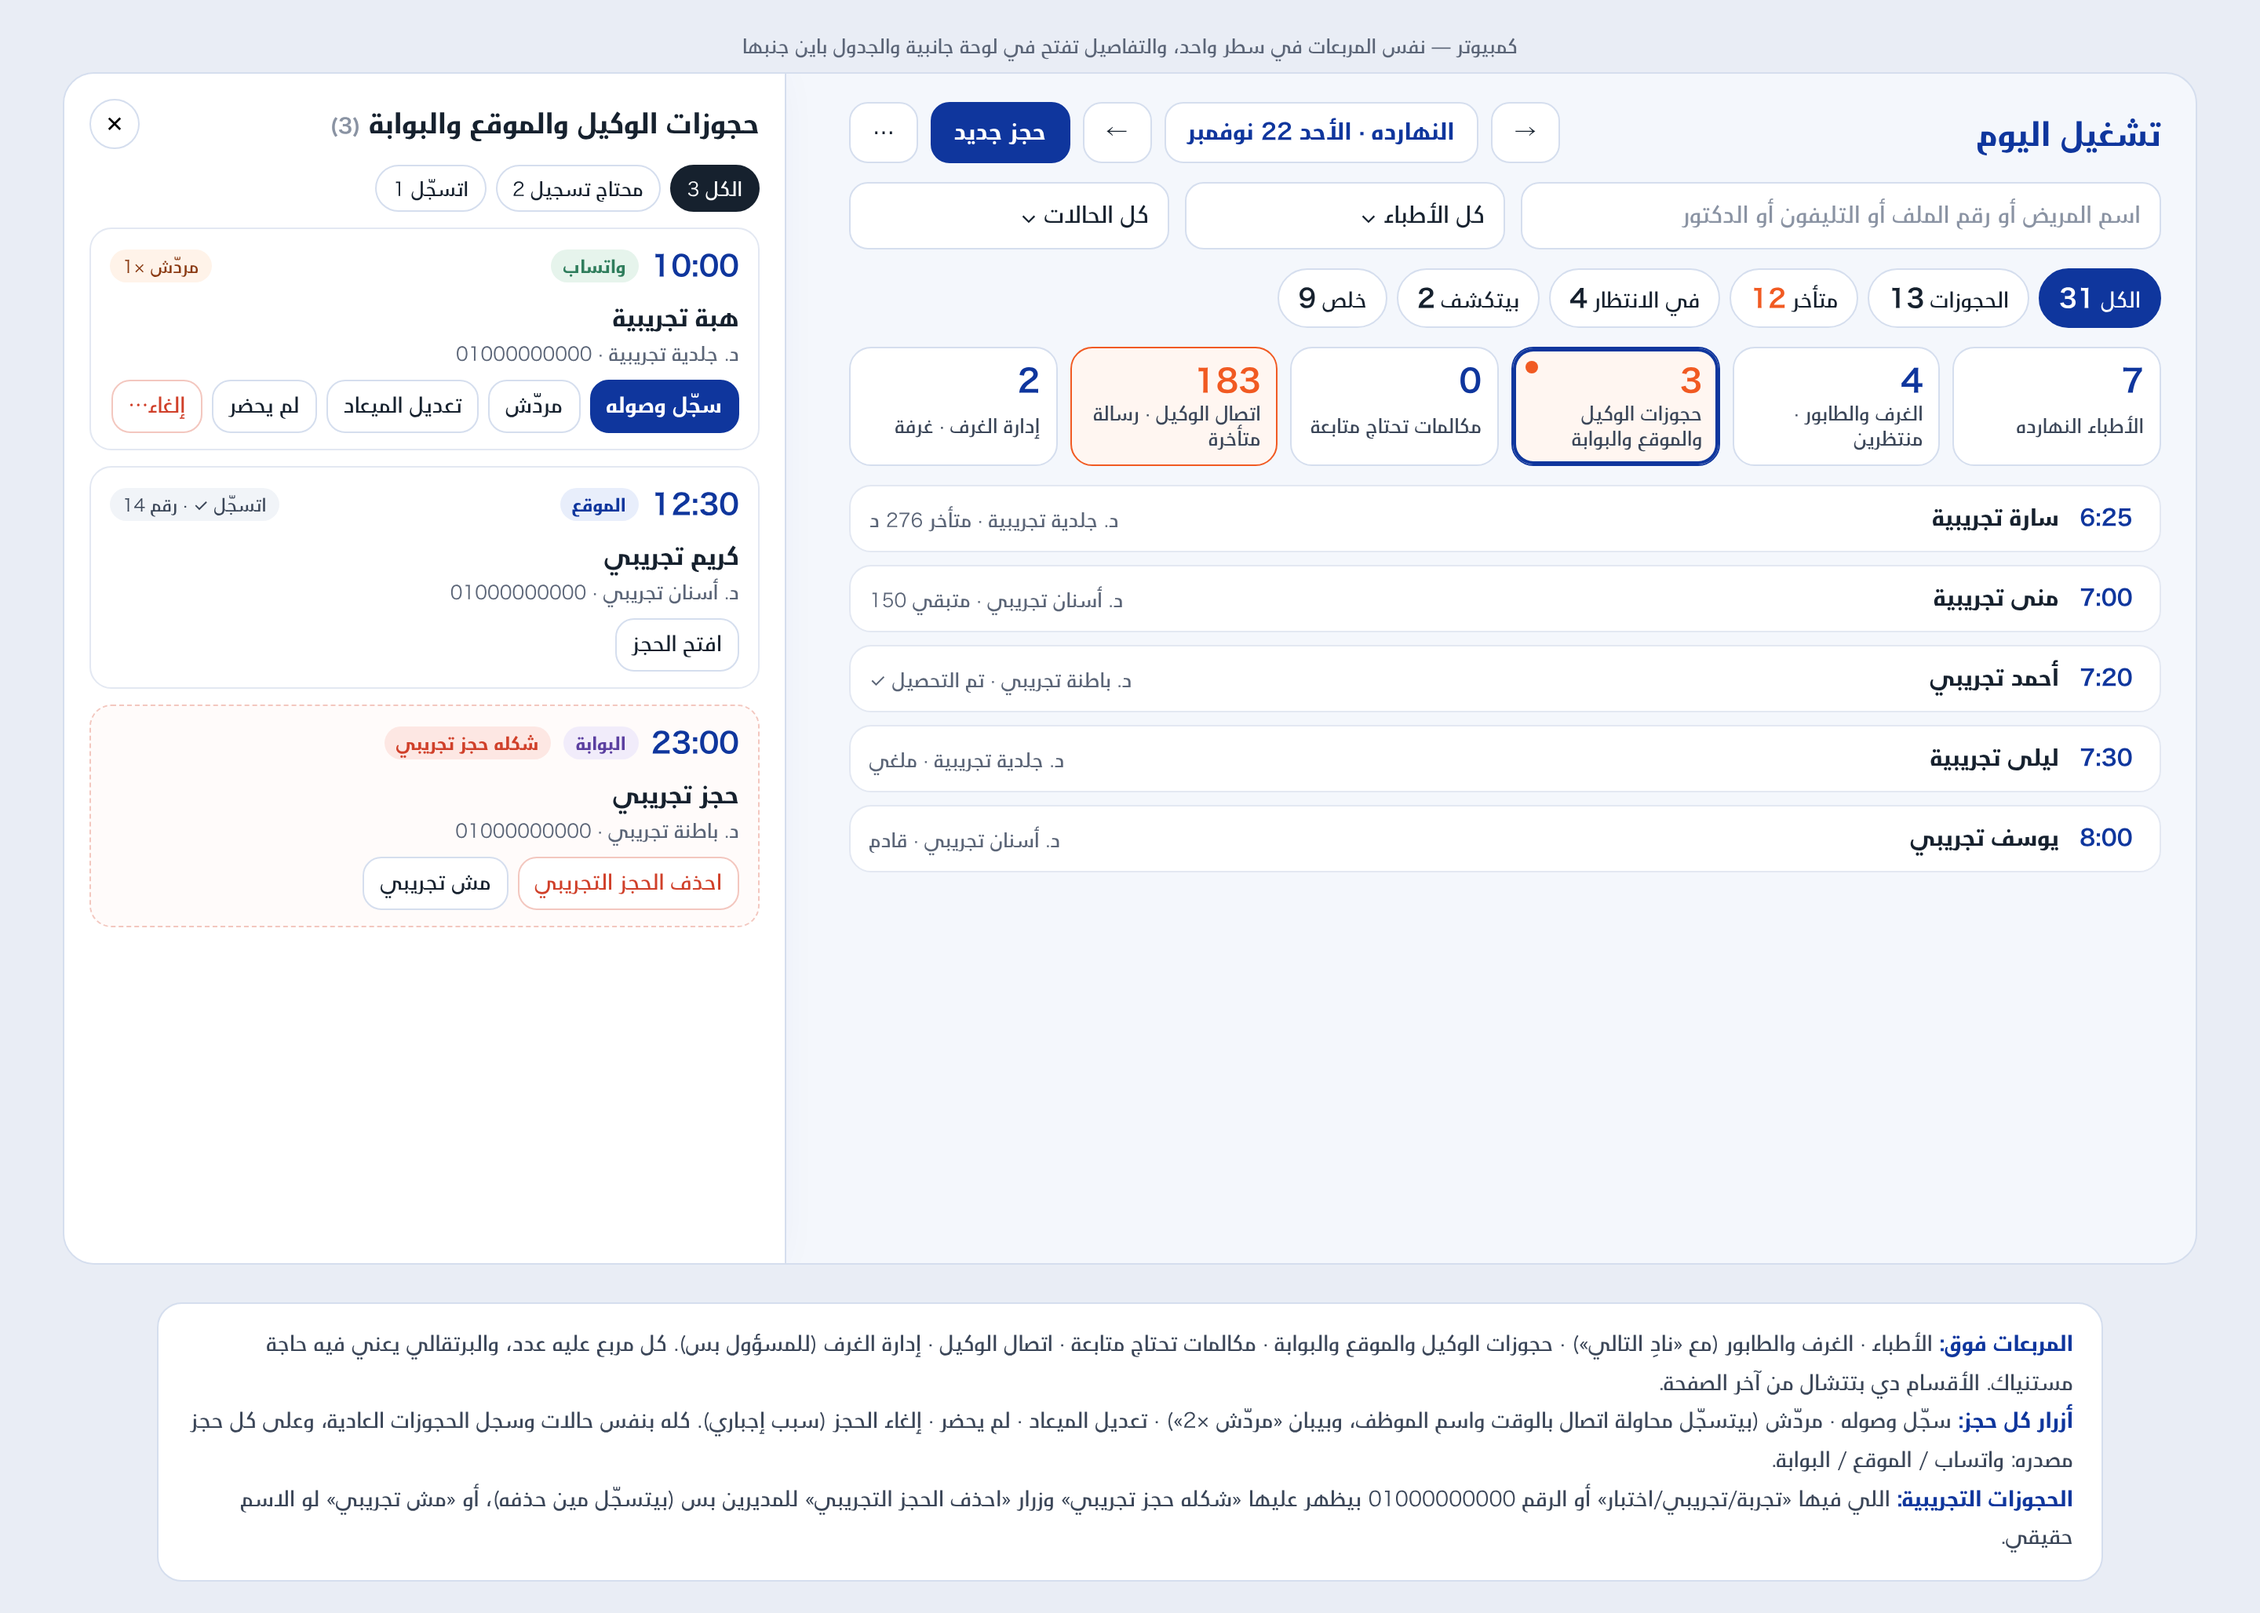
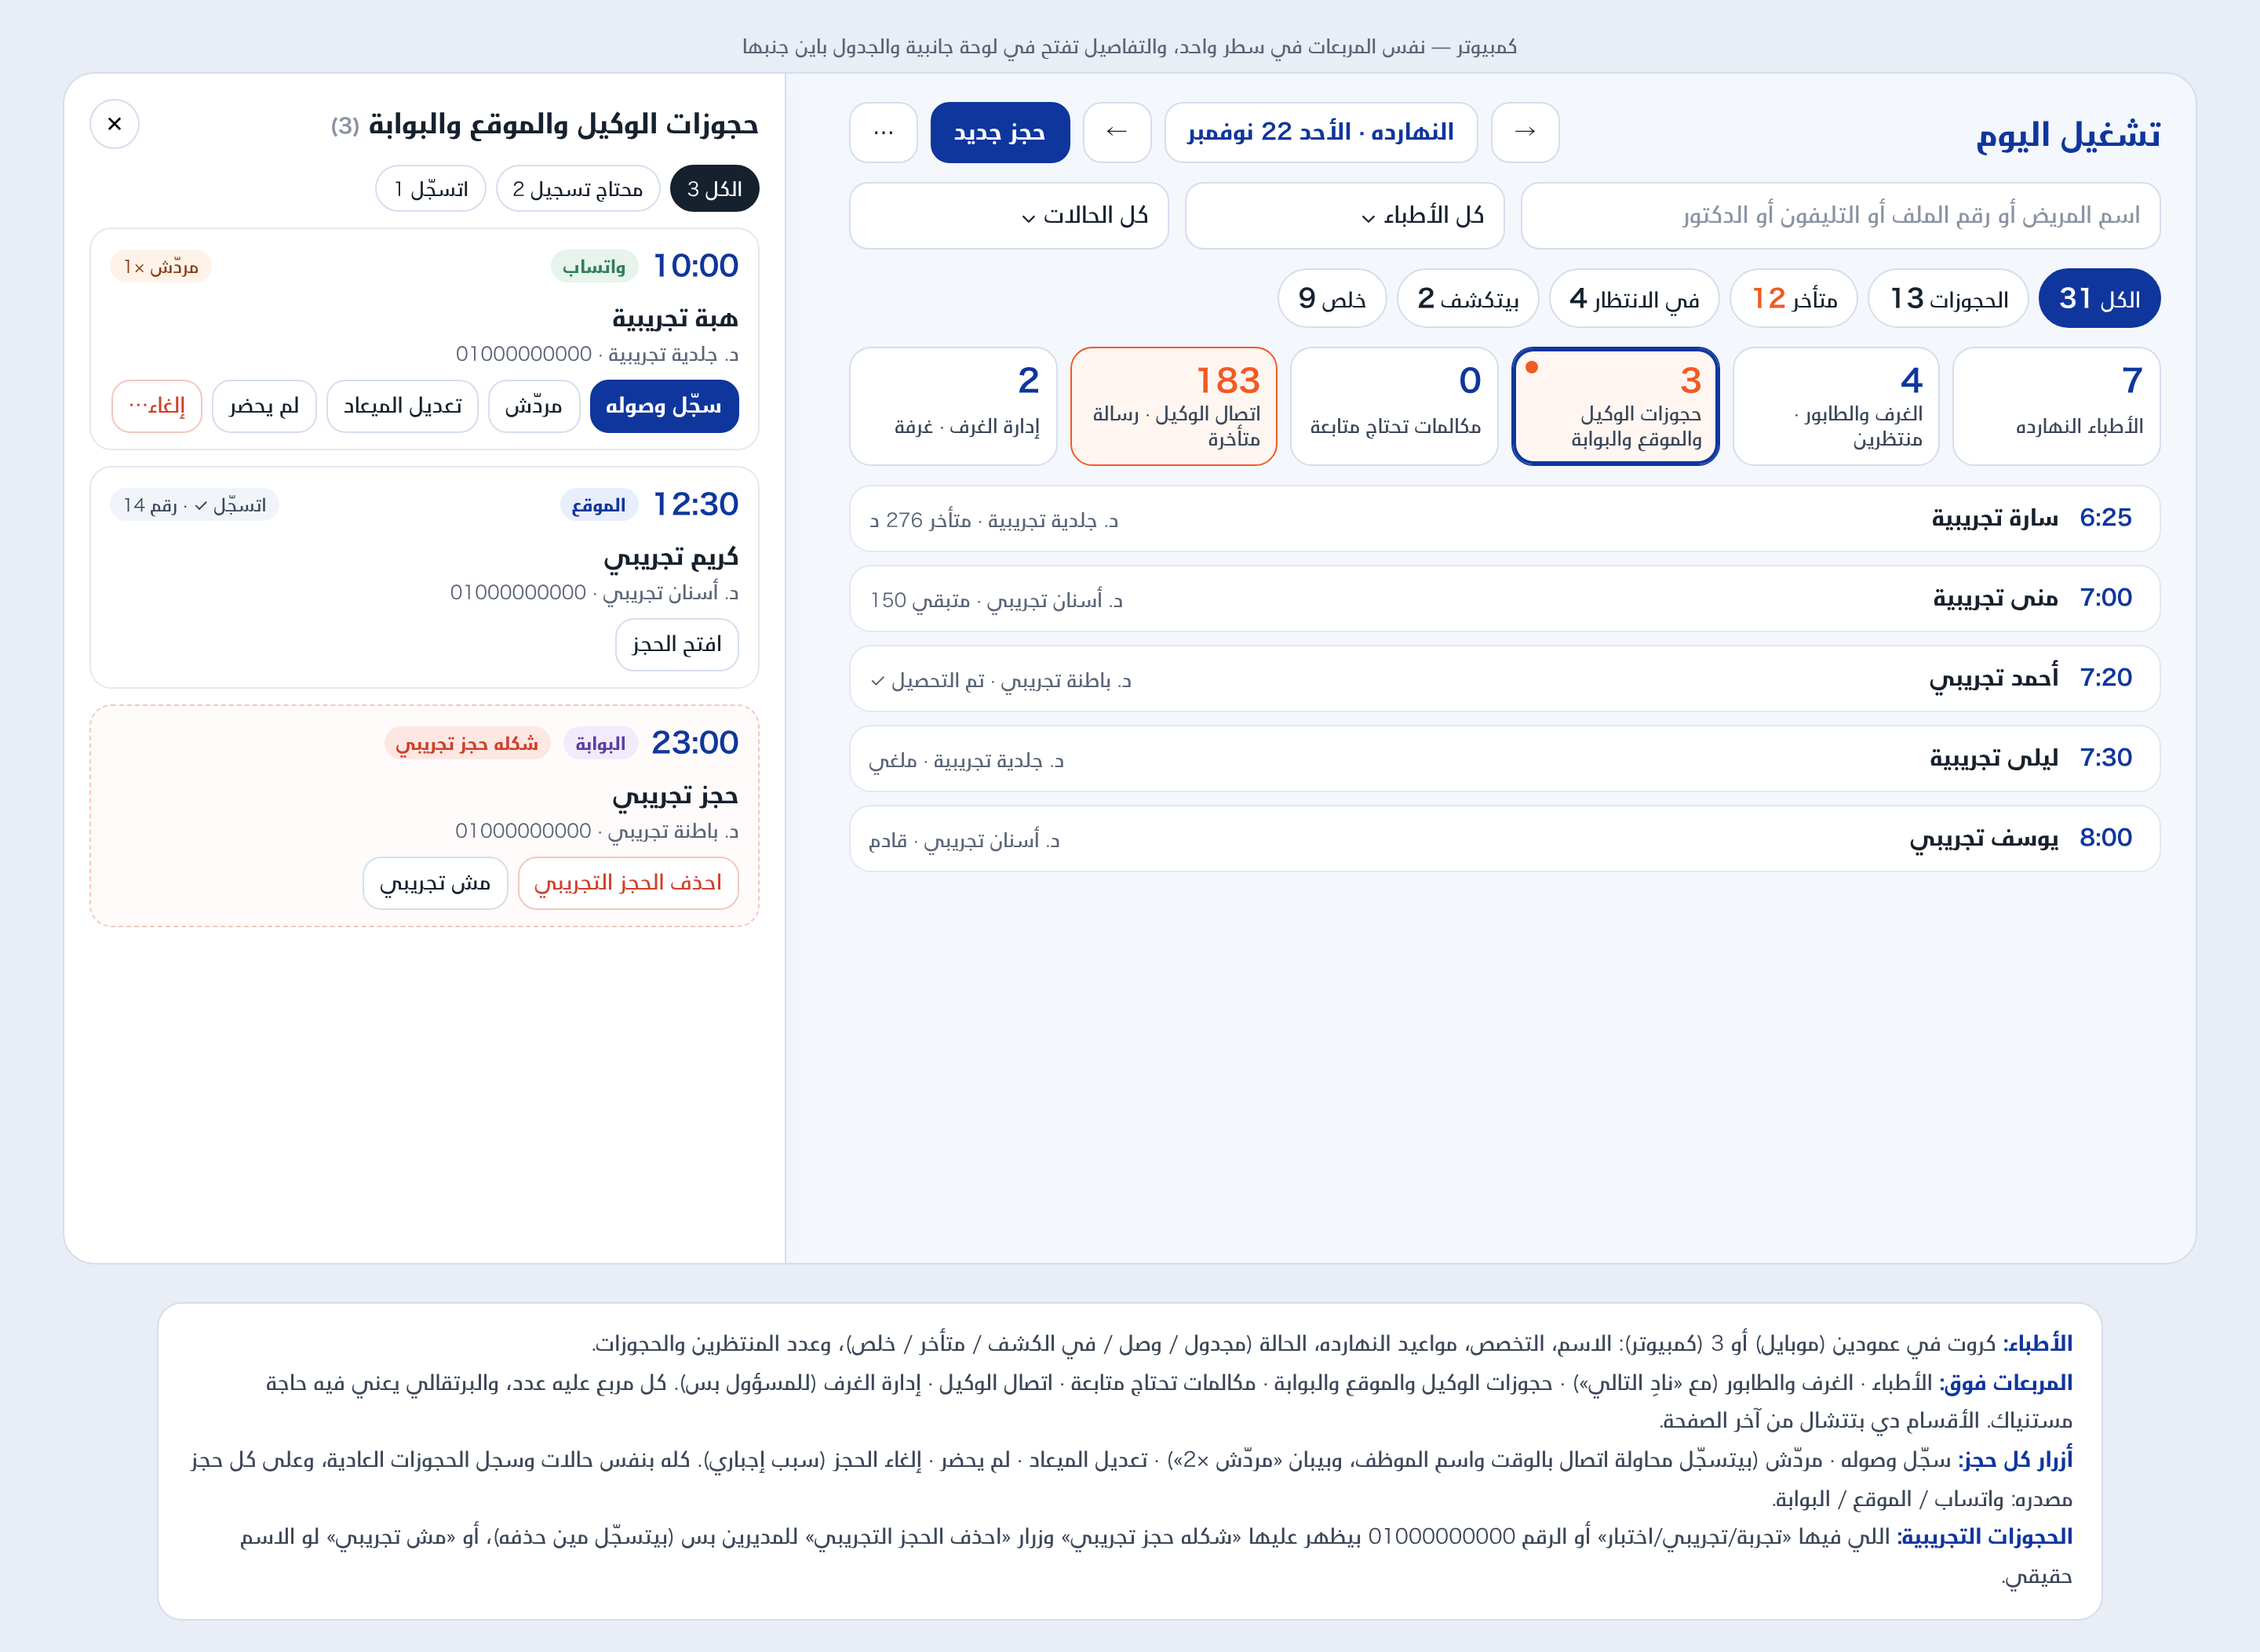
Mockup: doctors panel as a card grid
Claude-Session: https://claude.ai/code/session_01UqVZHa1WNN8bEGUYBvTA8M

diff --git a/docs/ui-references/mockups/today-shortcuts.html b/docs/ui-references/mockups/today-shortcuts.html
@@ -8,8 +8,8 @@
 *{box-sizing:border-box}
 body{margin:0;background:#E9EDF5;font-family:"Hiragino Kaku","BigVesta Arabic",system-ui,Tahoma,sans-serif;color:#16212E;font-size:14px}
 .cap{margin:0 0 8px;font-size:12px;color:#5b6577}
-.stage{display:grid;gap:24px;padding:20px 12px;max-width:1400px;margin:0 auto}
-.phones{display:grid;grid-template-columns:repeat(3,390px);gap:24px;justify-content:center}
+.stage{display:grid;gap:24px;padding:20px 12px;max-width:1720px;margin:0 auto}
+.phones{display:grid;grid-template-columns:repeat(4,390px);gap:24px;justify-content:center}
 .phone{width:390px;background:#F4F7FC;border-radius:28px;border:1px solid #D5DEEE;overflow:hidden;position:relative;height:844px;box-shadow:0 12px 30px rgba(15,54,157,.10)}
 .pad{padding:14px}
 .head{display:flex;align-items:center;gap:8px}.head h2{margin:0;font-size:20px;color:#0F369D;flex:1}
@@ -62,6 +62,13 @@ body{margin:0;background:#E9EDF5;font-family:"Hiragino Kaku","BigVesta Arabic",s
 .note{font-size:12px;background:#FFF3E9;color:#8A3A12;border-radius:10px;padding:8px 12px;margin:0;line-height:1.7}
 .ok{font-size:12px;background:#E6F4EC;color:#2F7D5C;border-radius:10px;padding:8px 12px;margin:0;line-height:1.7}
 .foot{display:flex;gap:8px}.foot .btn{flex:1}
+.docg{display:grid;grid-template-columns:repeat(2,minmax(0,1fr));gap:8px}
+.doc{border:1px solid #E3E8F2;border-radius:14px;padding:10px;display:grid;gap:4px;background:#fff}
+.doc b{font-size:14px}.doc .sp{font-size:12px;color:#5b6577}.doc .hr{font-size:12px;color:#3B4658;direction:ltr;text-align:right}
+.doc .ft{display:flex;flex-wrap:wrap;align-items:center;gap:4px 6px;margin-top:2px}.doc .cnt{font-size:12px;color:#3B4658;white-space:nowrap}
+.ds{font-size:11px;border-radius:99px;padding:2px 8px;font-weight:700;white-space:nowrap}
+.ds.s{background:#F1F4F8;color:#3B4658}.ds.a{background:#E6F4EC;color:#2F7D5C}.ds.k{background:#E8EEFB;color:#0F369D}.ds.f{background:#EEF0F3;color:#8a93a3}.ds.l{background:#FFF3E9;color:#8A3A12}
+.doc.off{opacity:.6}
 /* desktop */
 .desk{width:1360px;margin:0 auto;background:#F4F7FC;border:1px solid #D5DEEE;border-radius:20px;overflow:hidden;position:relative;height:760px}
 .desk .wrap{padding:18px 22px;display:grid;gap:12px;width:880px}
@@ -154,6 +161,29 @@ body.m .desk-sec,body.m .legend{display:none}body.d .phones{display:none}
  <p class="cap" style="margin:0">نفس شاشة تعديل الميعاد العادية (المواعيد المتاحة + «حجز بميعاد يدوي»).</p>
 </div>
 </div></section>
+
+<!-- 4: doctors sheet -->
+<section><p class="cap">٤ — دوست «الأطباء»: كروت مرتبة بدل الأسماء فوق بعض</p>
+<div class="phone"><div class="pad dim">
+ <div class="head"><h2>تشغيل اليوم</h2><button class="btn pri">حجز جديد</button></div>
+ <div class="sc"><div class="tile on"><span class="n">7</span></div><div class="tile"><span class="n">4</span></div><div class="tile"><span class="n">3</span></div></div>
+</div><div class="veil"></div>
+<div class="sheet">
+ <div class="grab"></div>
+ <div class="sh"><h3>الأطباء النهارده <span style="color:#8a93a3;font-size:13px">(7)</span></h3><button class="x">✕</button></div>
+ <div class="tabs"><span class="tab on">الكل 7</span><span class="tab">وصل 3</span><span class="tab">لسه 3</span><span class="tab">خلص 1</span></div>
+ <div class="docg">
+  <div class="doc"><b>د. جلدية تجريبية</b><span class="sp">جلدية</span><span class="hr">16:00 - 22:00</span><div class="ft"><span class="ds k">في الكشف</span><span class="cnt">2 منتظر · 9 حجز</span></div></div>
+  <div class="doc"><b>د. أسنان تجريبي</b><span class="sp">أسنان</span><span class="hr">12:00 - 20:00</span><div class="ft"><span class="ds a">وصل</span><span class="cnt">1 منتظر · 6 حجز</span></div></div>
+  <div class="doc"><b>د. باطنة تجريبي</b><span class="sp">باطنة</span><span class="hr">18:00 - 23:00</span><div class="ft"><span class="ds l">متأخر 20 د</span><span class="cnt">3 منتظر · 7 حجز</span></div></div>
+  <div class="doc"><b>د. أطفال تجريبية</b><span class="sp">أطفال</span><span class="hr">19:00 - 23:00</span><div class="ft"><span class="ds s">مجدول</span><span class="cnt">0 منتظر · 5 حجز</span></div></div>
+  <div class="doc"><b>د. عظام تجريبي</b><span class="sp">عظام</span><span class="hr">20:00 - 23:59</span><div class="ft"><span class="ds s">مجدول</span><span class="cnt">0 منتظر · 4 حجز</span></div></div>
+  <div class="doc"><b>د. نسا تجريبية</b><span class="sp">نسا وتوليد</span><span class="hr">14:00 - 18:00</span><div class="ft"><span class="ds a">وصل</span><span class="cnt">0 منتظر · 3 حجز</span></div></div>
+  <div class="doc off"><b>د. أنف وأذن تجريبي</b><span class="sp">أنف وأذن</span><span class="hr">10:00 - 13:00</span><div class="ft"><span class="ds f">خلص</span><span class="cnt">6 حجز</span></div></div>
+ </div>
+ <p class="cap" style="margin:0">الضغط على كارت الدكتور يفلتر الجدول عليه، ومنه «سجّل تأخير» و«وصل» زي دلوقتي.</p>
+</div>
+</div></section>
 </div>
 
 <!-- desktop -->
@@ -199,7 +229,7 @@ body.m .desk-sec,body.m .legend{display:none}body.d .phones{display:none}
 </aside></div></section>
 
 <div class="legend">
-<b>المربعات فوق:</b> الأطباء · الغرف والطابور (مع «نادِ التالي») · حجوزات الوكيل والموقع والبوابة · مكالمات تحتاج متابعة · اتصال الوكيل · إدارة الغرف (للمسؤول بس). كل مربع عليه عدد، والبرتقالي يعني فيه حاجة مستنياك. الأقسام دي بتتشال من آخر الصفحة.<br>
+<b>الأطباء:</b> كروت في عمودين (موبايل) أو 3 (كمبيوتر): الاسم، التخصص، مواعيد النهارده، الحالة (مجدول / وصل / في الكشف / متأخر / خلص)، وعدد المنتظرين والحجوزات.<br><b>المربعات فوق:</b> الأطباء · الغرف والطابور (مع «نادِ التالي») · حجوزات الوكيل والموقع والبوابة · مكالمات تحتاج متابعة · اتصال الوكيل · إدارة الغرف (للمسؤول بس). كل مربع عليه عدد، والبرتقالي يعني فيه حاجة مستنياك. الأقسام دي بتتشال من آخر الصفحة.<br>
 <b>أزرار كل حجز:</b> سجّل وصوله · مردّش (بيتسجّل محاولة اتصال بالوقت واسم الموظف، وبيبان «مردّش ×2») · تعديل الميعاد · لم يحضر · إلغاء الحجز (سبب إجباري). كله بنفس حالات وسجل الحجوزات العادية، وعلى كل حجز مصدره: واتساب / الموقع / البوابة.<br>
 <b>الحجوزات التجريبية:</b> اللي فيها «تجربة/تجريبي/اختبار» أو الرقم 01000000000 بيظهر عليها «شكله حجز تجريبي» وزرار «احذف الحجز التجريبي» للمديرين بس (بيتسجّل مين حذفه)، أو «مش تجريبي» لو الاسم حقيقي.
 </div>
